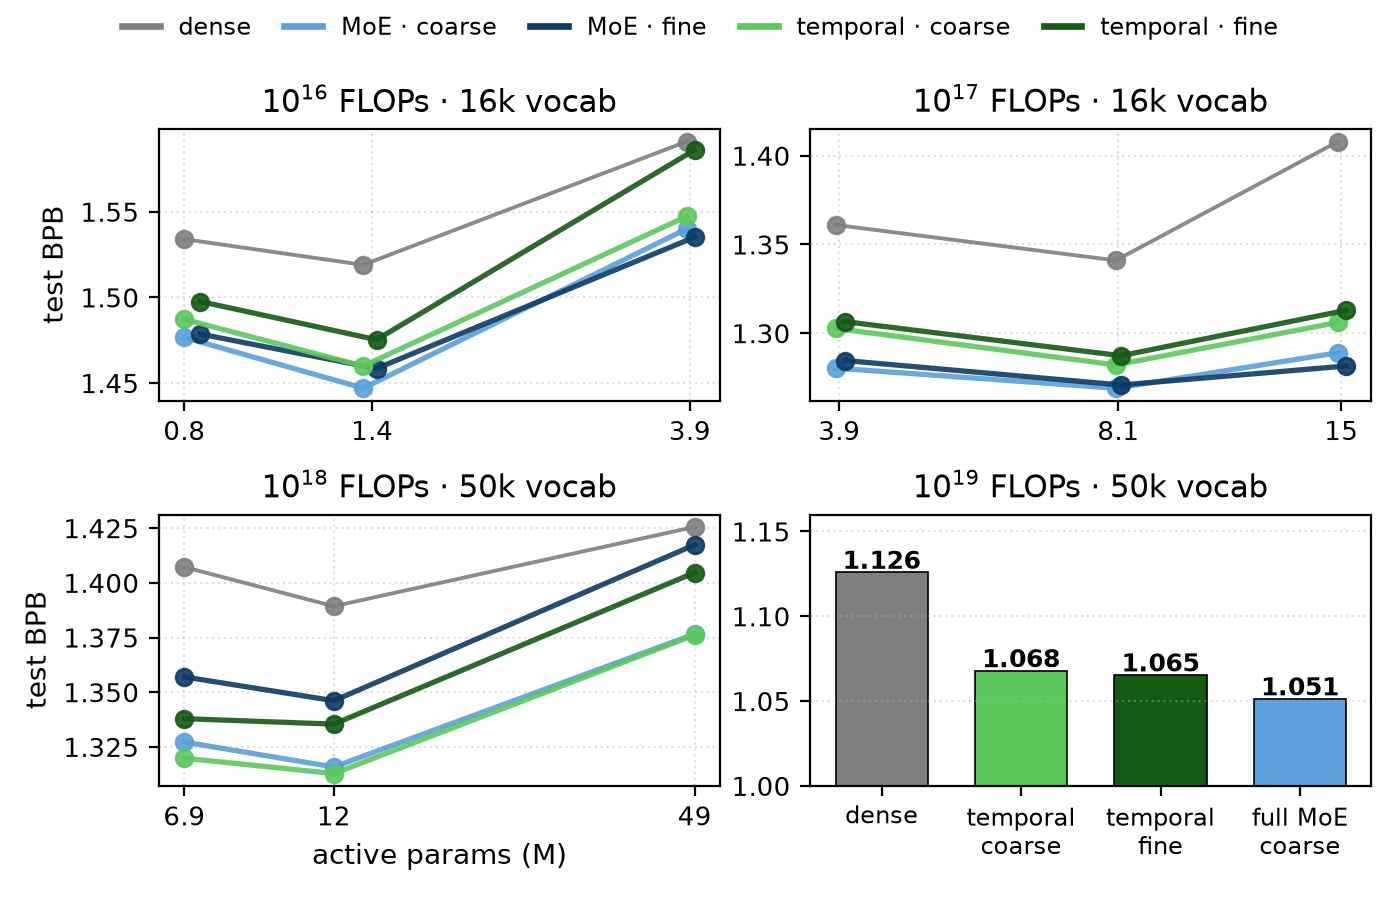
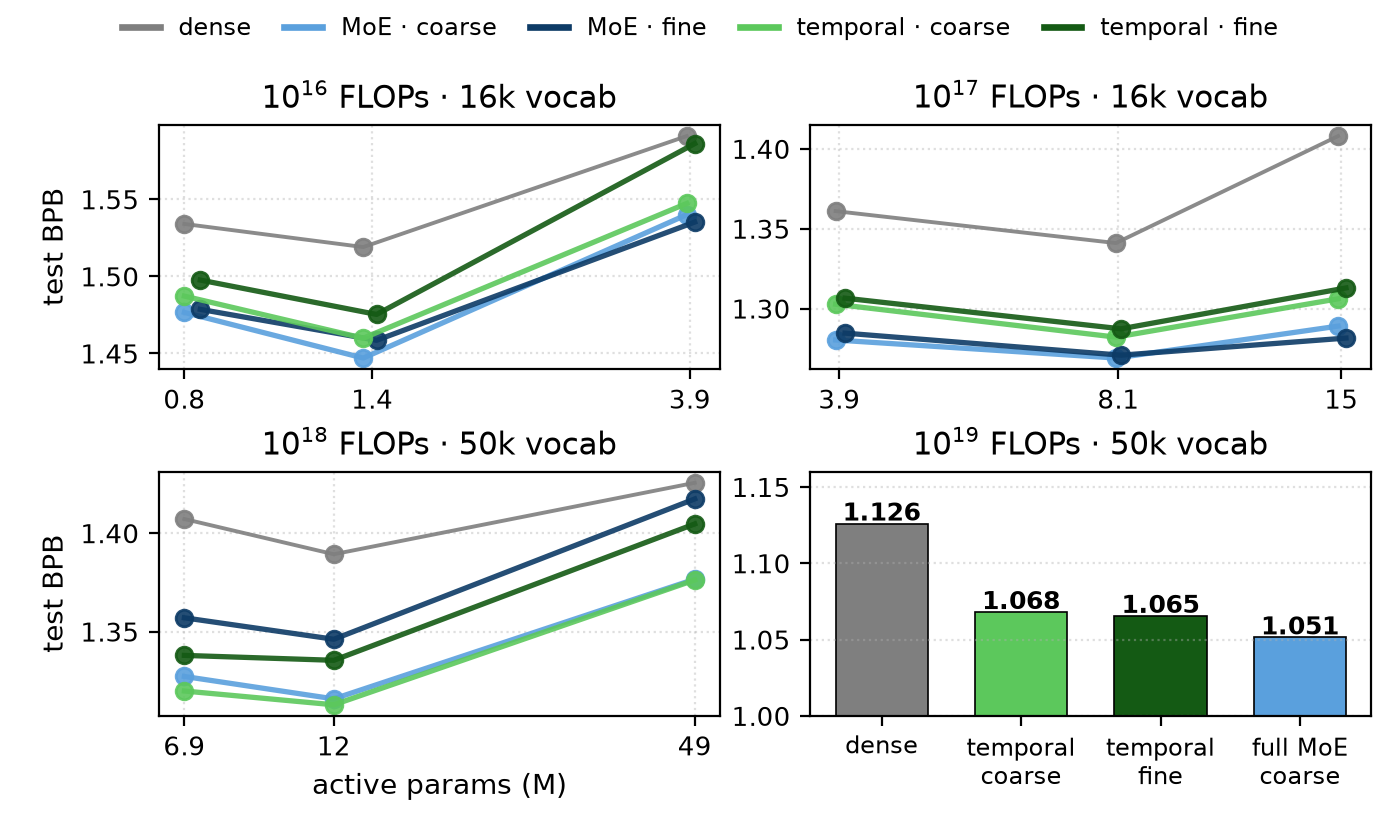
Paper: state the fine-graining penalty for full MoE at 1e18; extend collapse stats to 1e19
- Results: fine-graining hurts the FULL MoE at 1e18 (48.5M active lands
  within 0.024 nats of the dense floor) while temporal is robust, which is
  why the fine cell carried to 1e19 is temporal.
- Streaming-not-collapse now cites the 1e19 probes (96-100% pool coverage,
  max residency 25%).
- Appendix dose-sweep sentence tightened (also drops a semicolon).
- Grid image height 4.5->4.15in to keep the paper at 6 pages.

diff --git a/paper/main.tex b/paper/main.tex
@@ -132,7 +132,9 @@ against the strongest full MoE, consistent with the smaller budgets. In fact, so
 mechanism appears nearly lossless, here outperforming
 its equally fine-grained MoE counterpart (3.977 vs.\ 4.009 nats). At the coarse granularity, run
 with two seeds per arm, it appears to surpass the strongest full MoE outright: every temporal
-seed lands below every MoE seed (3.904--3.909 vs.\ 3.918--3.930 nats). At $10^{19}$
+seed lands below every MoE seed (3.904--3.909 vs.\ 3.918--3.930 nats). Fine-graining itself hurts the full
+MoE at this scale (at 48.5M active it lands within 0.024 nats of the dense floor) while temporal
+routing is robust to it, so the fine cell we carry forward is temporal. At $10^{19}$
 (Figure~\ref{fig:isoflop}, bottom right), our largest budget, temporal keeps 78--81\% of the
 MoE-over-dense gain and the granularity preference flips: the fine-grained temporal model (1.065
 BPB) now edges out the coarse one (1.068). Scale moves the temporal optimum toward exactly the
@@ -142,8 +144,9 @@ granularity that makes streaming cheap.
 under residency, the router's \emph{unconstrained} preferences become temporally banded, and its
 next-token self-consistency nearly doubles over vanilla routing at every scale probed. The effect
 is streaming, not collapse. Over a 2048-token sequence a temporal model still touches 83--98\% of
-its expert pool, and no expert is resident more than 40\% of the time, so quality comes from
-time-multiplexed access to the full pool rather than a static subset.
+its expert pool (96--100\% at $10^{19}$), and no expert is resident more than 40\% of the time
+(25\% at $10^{19}$), so quality comes from time-multiplexed access to the full pool rather than a
+static subset.
 
 \begin{figure}[t]
   \centering
@@ -416,8 +419,8 @@ median 15{,}932, with no word-list experts even in the tail.
 \end{table}
 
 \textbf{Dose sweep.} Cells trained from scratch at $10^{16}$ FLOPs on the same softmax-aux
-recipe. Held-out BPB at $R = 18/36/72/128/192$ is 1.4750 / 1.4736 / 1.4681 / 1.4580 / 1.4519,
-the endpoint being the retrained full-MoE baseline; most of the gap closes by $R = 128$, and
-expert diversity is preserved at every dose (182--186 effective experts).
+recipe. Held-out BPB at $R = 18/36/72/128/192$ is 1.4750 / 1.4736 / 1.4681 / 1.4580 / 1.4519
+(endpoint = the retrained full-MoE baseline). Most of the gap closes by $R = 128$, with expert
+diversity preserved at every dose (182--186 effective experts).
 
 \end{document}

diff --git a/analysis/plots/plot_isoflop_panels.py b/analysis/plots/plot_isoflop_panels.py
@@ -115,7 +115,7 @@ out = f"{OUTD}/isoflop_panel_1e19_nocaption.png"
 fig.savefig(out, dpi=200); print("wrote", out); plt.close(fig)
 
 # PAPER GRID: one tight 2x2 image with a single shared legend (used by paper/main.tex)
-fig, axes = plt.subplots(2, 2, figsize=(7.0, 4.5))
+fig, axes = plt.subplots(2, 2, figsize=(7.0, 4.15))
 curve_panel(axes[0][0], P16, "$10^{16}$ FLOPs · 16k vocab", ticks=TICKS["1e16"], xlabel=False)
 curve_panel(axes[0][1], P17, "$10^{17}$ FLOPs · 16k vocab", ticks=TICKS["1e17"], xlabel=False, ylabel=False)
 curve_panel(axes[1][0], P18, "$10^{18}$ FLOPs · 50k vocab", ticks=TICKS["1e18"])
